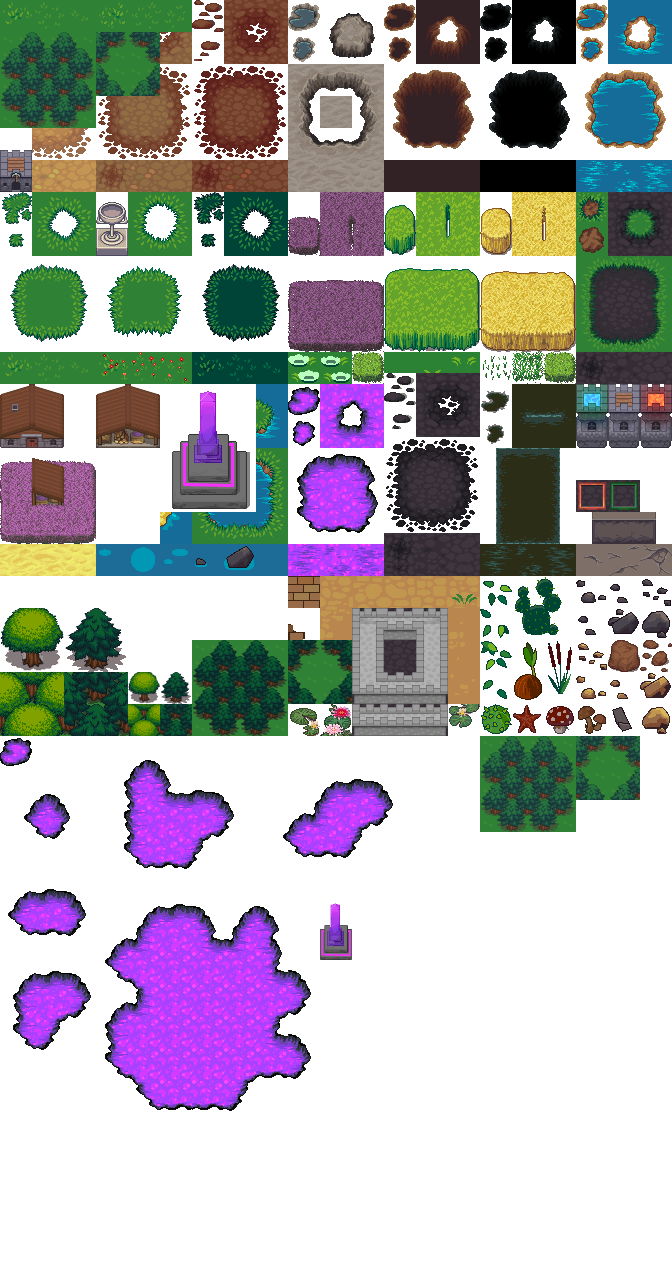
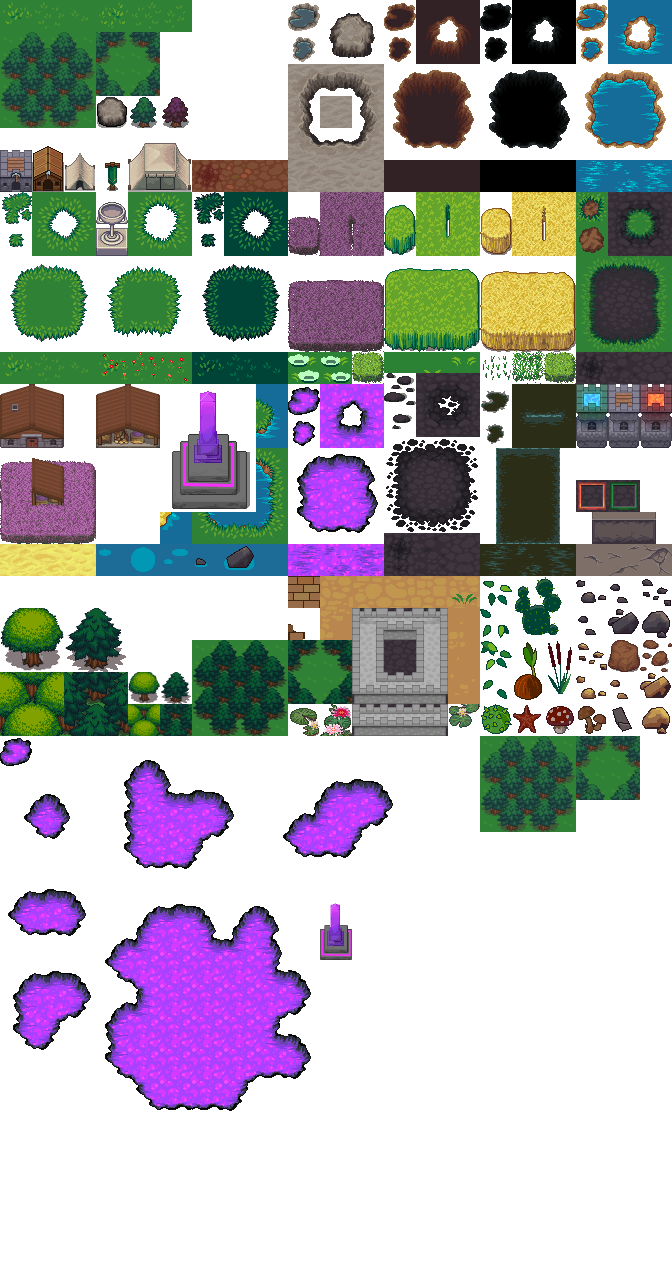
:toolbox: adds resources rendering

Changed region(s): [[0.0312, 0.0, 0.4375, 0.1562]]

diff --git a/mapa/tileset.py b/mapa/tileset.py
@@ -11,9 +11,10 @@ class Tileset:
         self._filename = file_name
         self.tile_size = tile_size
         self._image = pygame.image.load(self._filename)
-        self._image.convert()
+        self._image.convert_alpha()
         self._image_rect = self._image.get_rect()
         self._tile_library = {}
+        self._tile_library_alpha = {}
         self.load_library()
 
 
@@ -21,6 +22,7 @@ class Tileset:
     def load_library(self):
         #limpa o dicionário
         self._tile_library = {}
+        self._tile_library_alpha = {}
         x0 = y0 = 0
         w, h = self._image_rect.size
         dx = self.tile_size[0]
@@ -29,17 +31,26 @@ class Tileset:
         tile_index = 0
         for y in range(y0, h, dy):
             for x in range(x0, w, dx):
+                #cria o tile normal
                 tile = pygame.Surface(self.tile_size)
-                tile.blit(self._image, (0, 0), (x, y, *self.tile_size))
-
-                #tile = self._image.subsurface((x, y, *self.tile_size))
+                tile.blit(self._image, (0, 0), (x, y, *self.tile_size))                
                 self._tile_library[tile_index] = tile
+
+                #cria a versão com alpha
+                tile_alpha = pygame.Surface(self.tile_size, pygame.SRCALPHA)
+                tile_alpha.blit(self._image, (0, 0), (x, y, *self.tile_size),special_flags = pygame.BLEND_RGBA_ADD)
+                self._tile_library_alpha[tile_index] = tile_alpha
+
                 tile_index +=1
         
 
     #Função que retorna um ladrilho no formato surface
     def get_tile(self, tile_code):
         return self._tile_library.get(tile_code, self._tile_library[0])
+
+    #Função que retorna um ladrilho no formato surface com alfa
+    def get_tile_alpha(self, tile_code):
+        return self._tile_library_alpha.get(tile_code, self._tile_library_alpha[0])
 
     def get_tileset_size(self):
         return len(self._tile_library)

diff --git a/mapa/tilemap.py b/mapa/tilemap.py
@@ -32,13 +32,30 @@ class Tilemap:
                 tile_code = cell.tile_code
                 tile = self.tileset.get_tile(cell.tile_code)
 
-                #verifica parra criar a mancha de dominio no piso
+                #verifica para criar a mancha de dominio no piso
                 if can_be_dominated(cell) and not cell.is_map_edge:
                     border_tile_code = border_maker(cell, world)
                     cell.is_dominion_border = border_tile_code != 208
                     tile = self.tileset.get_tile(border_tile_code)
 
+                #verifica para desenhar recurso no piso
+                extra_surf = None
+                if cell.resource != None and cell.resource_amount > 0:
+                    #cell.walkable = False
+                    if cell.resource == "wood":
+                        if cell.dominion_level > Settings.dominion_threshold:
+                            extra_surf = self.tileset.get_tile_alpha(68)
+                        else:
+                            extra_surf = self.tileset.get_tile_alpha(67)
+                    elif cell.resource == "iron":
+                        extra_surf = self.tileset.get_tile_alpha(66)
+                
+                        
+
+
                 screen.blit(tile, (cell.x, cell.y))
+                if extra_surf != None :
+                    screen.blit(extra_surf, (cell.x, cell.y))
                 #self.surface.blit(tile, (cell.x, cell.y))
 
 

diff --git a/interface/debug_interface.py b/interface/debug_interface.py
@@ -30,6 +30,7 @@ class DebugInterface:
         self.debug_show_button = TextButton(gw, self.show_debug_info, (20,560), "SHOW PATH")   
         self.debug_up_ripple = TextButton(gw, self.build_obelisk, (20,590), "OBELISK") 
         self.buildmining_button = TextButton(gw, self.build_mining, (20,620), "MINING")
+        self.buildmill_button = TextButton(gw, self.build_lumber, (20,650), "LUMBER")
 
         self.resources_back = Surface((150, 130))        
         self.resources_back.fill((0,0,0))
@@ -44,6 +45,10 @@ class DebugInterface:
 
     def build_mining(self):
         self.game.building_mode_interface.start("miningcamp")
+        self.game.simulation_mode = SimulationMode.BUILDING
+
+    def build_lumber(self):
+        self.game.building_mode_interface.start("lumbercamp")
         self.game.simulation_mode = SimulationMode.BUILDING
 
     def build_firetower(self):
@@ -66,6 +71,7 @@ class DebugInterface:
         self.debug_show_button.update()
         self.debug_up_ripple.update()
         self.buildmining_button.update()
+        self.buildmill_button.update()
 
         self.game.screen.blit(self.resources_back, (150,500))
                     

diff --git a/main.py b/main.py
@@ -11,21 +11,21 @@ from settings import Settings
 
 
 def main():
-    s = Settings()   
+    settings = Settings()   
 
-    gameWindow = Window(s.game_w,s.game_h)
-    gameWindow.set_title(s.gameApplicationName)
+    gameWindow = Window(settings.game_w,settings.game_h)
+    gameWindow.set_title(settings.gameApplicationName)
 
-    s.gamescreen = Game(s, gameWindow)
-    s.mainmenuscreen = MainMenu(s,gameWindow)
-    s.current_screen = s.mainmenuscreen
+    settings.gamescreen = Game(settings, gameWindow)
+    settings.mainmenuscreen = MainMenu(settings,gameWindow)
+    settings.current_screen = settings.mainmenuscreen
 
     load_custom_cursor("cursor16.png")
 
     
-    while s.current_screen != None:
+    while settings.current_screen != None:
         delta_time = gameWindow.delta_time()
-        s.current_screen.update(delta_time)       
+        settings.current_screen.update(delta_time)       
 
         gameWindow.update()
 

diff --git a/buildings/buildingmanager.py b/buildings/buildingmanager.py
@@ -17,6 +17,7 @@ class BuildingManager:
         self.infos = {}
         self.infos["dormitory"] = BuildingInfo("dormitory", (0, 12), (2,2), self._image, True, wood_cost= 50)
         self.infos["miningcamp"] = BuildingInfo("miningcamp", (0, 4), (1,2), self._image, True, wood_cost= 50)
+        self.infos["lumbercamp"] = BuildingInfo("lumbercamp", (1, 4), (1,2), self._image, True, wood_cost= 50)
         self.infos["firetower"] = BuildingInfo("firetower", (20, 12), (1,2), self._image, True, self.tower_action, iron_cost=50, wood_cost=50)
         self.infos["breach1"] = BuildingInfo("breach1", (0, 23), (1,1), self._image, True, breach_update, 1, 2500, 10)
         self.infos["breach2"] = BuildingInfo("breach2", (0, 24), (3,3), self._image, True, breach_update, 1, 2500, 20)

diff --git a/interface/buildingmode.py b/interface/buildingmode.py
@@ -40,12 +40,12 @@ class BuildingMode:
                 uc = u + cell_mask[0]
                 if not self.game.world.cells[vc][uc].walkable : possible = False  
                 if self.game.world.cells[vc][uc].is_dominion_border: possible = False
+                #verifica se esta sobre um tile dominado:
                 if self.game.world.cells[vc][uc].dominion_level < Settings.dominion_threshold: possible = False
             #Verifica se possui recursos o suficiente
             if self.selected.wood_cost > Match.wood: possible = False
             if self.selected.iron_cost > Match.iron: possible = False
             if self.selected.aether_cost > Match.aether: possible = False
-            #verifica se esta sobre um tile dominado:
 
 
 

diff --git a/mapa/cell.py b/mapa/cell.py
@@ -22,6 +22,7 @@ class Cell:
         self.is_dominion_border = False
         self.is_map_edge = False
         self.resource = None
+        self.resource_amount = 1000
 
     @property
     def u(self):    return self.location[0]
